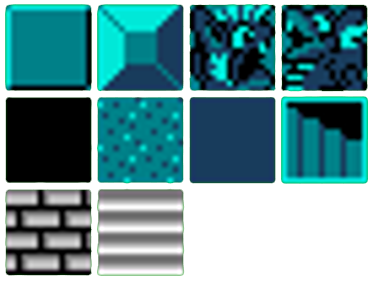
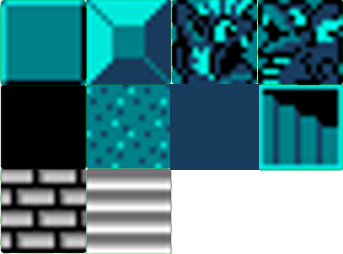
Fixed Water Block

diff --git a/Blocks Handling/BlockHelper/BlocksSprite.cs b/Blocks Handling/BlockHelper/BlocksSprite.cs
@@ -28,8 +28,6 @@ namespace Sprint4.Blocks
 
         public void Draw(SpriteBatch spriteBatch, Vector2 location, int currentFrame, Color color)
         {
-            Rectangle sourceRectangle;
-            Rectangle destinationRectangle;
 
 
 
@@ -49,13 +47,13 @@ namespace Sprint4.Blocks
         public void Draw(SpriteBatch spriteBatch, Vector2 spriteLocation, int drawnFrame)
         {
             int width = texture.Width / columns;
-            int drawnWidth = AdjustWidth(width, drawnFrame);
+          
 
             int height = texture.Height / rows;
             int row = (int)((float)drawnFrame / (float)columns);
             int column = drawnFrame % columns;
 
-            sourceRectangle = new Rectangle(width * column, height * row, drawnWidth, height);
+            sourceRectangle = new Rectangle(width * column, height * row, width, height);
             destinationRectangle = new Rectangle((int)spriteLocation.X , (int)spriteLocation.Y , blockDimensionX, blockDimensionY);
 
             

diff --git a/Blocks Handling/Blocks/WaterTile.cs b/Blocks Handling/Blocks/WaterTile.cs
@@ -6,7 +6,7 @@ using Microsoft.Xna.Framework.Graphics;
 
 namespace Sprint4.Blocks
 {
-    public class DarkerBlueTile : IBlock
+    public class WaterTile : IBlock
     {
         private Vector2 spriteLocation;
         private BlocksSprite block;
@@ -16,7 +16,7 @@ namespace Sprint4.Blocks
         private int drawnFrame; 
         private BlockCollider collider;
 
-        public DarkerBlueTile(BlocksSprite block, Vector2 location)
+        public WaterTile(BlocksSprite block, Vector2 location)
         {
             spriteLocation = location;
             this.block = block;

diff --git a/RoomHandling/RoomBlocks.cs b/RoomHandling/RoomBlocks.cs
@@ -86,7 +86,7 @@ namespace Sprint4
                         else if (objName.Equals("Water"))
                         {
 
-                            roomBlocks.Add(new DarkerBlueTile(SpriteFactory.Instance.CreateBlocksSprite() as BlocksSprite, location));
+                            roomBlocks.Add(new WaterTile(SpriteFactory.Instance.CreateBlocksSprite() as BlocksSprite, location));
                         }
                         else if (objName.Equals("Column"))
                         {
